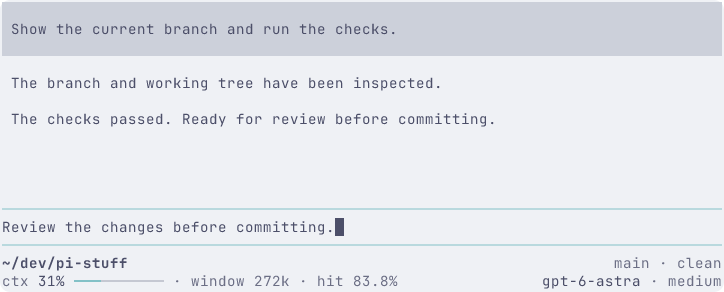
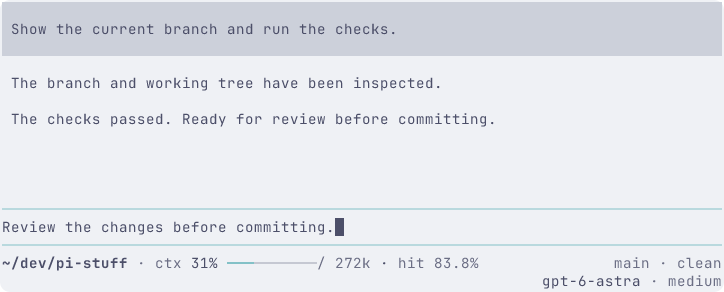
refactor(prototype): place context block after directory

Changed region(s): [[0.0, 0.863, 0.547, 0.9863], [0.547, 0.863, 0.6685, 0.9247]]

diff --git a/prototypes/statusline/capture.ts b/prototypes/statusline/capture.ts
@@ -50,12 +50,28 @@ async function capture(session: Session, name: string): Promise<string> {
   assert.equal(footer.length, 2);
   assert.doesNotMatch(
     footer[0] ?? '',
-    /goal|codex used|ctx|hit/u,
-    'Repository row stays focused',
+    /goal|codex used/u,
+    'Extensions stay on the second row',
+  );
+  assert.doesNotMatch(
+    footer[1] ?? '',
+    /ctx|hit|window/u,
+    'Context stays after the directory',
+  );
+  if (footer[0]?.includes('ctx')) {
+    assert.match(
+      footer[0],
+      /^~\/dev\/\S+ · ctx 31% ━{10}\/ 272k · hit 83\.8%/u,
+    );
+  }
+  assert.equal(
+    footer.join(' ').includes('ctx'),
+    footer.join(' ').includes('hit'),
+    'Context and hit stay together',
   );
   assert.doesNotMatch(
     footer.join(' '),
-    /R620k|W8k|est \$|openai-codex|auto/u,
+    /R620k|W8k|est \$|openai-codex|auto|window/u,
     'Routine detail fields do not return at wider widths',
   );
   if (
@@ -79,11 +95,12 @@ async function capture(session: Session, name: string): Promise<string> {
       'Lowercase sample labels and clean dot separators',
     );
     assert.equal(
-      line.split(/ {2,}/u).length,
-      2,
-      'Exactly one elastic gap separates the two zones',
+      line.trimStart().split(/ {2,}/u).length,
+      line.startsWith(' ') ? 1 : 2,
+      'One elastic gap when both zones are populated',
     );
-    if (line.includes('ctx')) assert.match(line, /ctx 31% ━{10}/u);
+    if (line.includes('ctx'))
+      assert.match(line, /ctx 31% ━{10}\/ 272k · hit 83\.8%/u);
   }
   assert.ok(
     lines.slice(start + 2).every(line => line.trim() === ''),
@@ -196,7 +213,7 @@ await runEffect(async () => {
                   footer.includes('↑2 ↓1'),
                   'Both divergence counters survive',
                 );
-              if (scenario !== 'long' || cols >= 100) {
+              if (cols === 150 || (scenario !== 'long' && cols >= 80)) {
                 assert.match(footer, /hit 83\.8%/u);
                 assert.match(footer, /ctx 31% ━{10}/u);
               }

diff --git a/prototypes/statusline/footer.ts b/prototypes/statusline/footer.ts
@@ -117,16 +117,12 @@ export function renderFooter(
   const meter =
     theme.fg('thinkingMedium', '━'.repeat(filled)) +
     theme.fg('borderMuted', '━'.repeat(10 - filled));
-  // A compact viewport omits capacity as a whole field, never shortens the meter.
-  second.push(
-    {
-      text: `${theme.fg('muted', 'ctx')} ${context}% ${meter}`,
-      side: 'left',
-      priority: 90,
-    },
-    {text: theme.fg('muted', 'window 272k'), side: 'left', priority: 20},
-    {text: theme.fg('muted', 'hit 83.8%'), side: 'left', priority: 100},
-  );
+  // Keep the requested context/capacity/hit block intact immediately after dir.
+  first.push({
+    text: `${theme.fg('muted', 'ctx')} ${context}% ${meter}${theme.fg('muted', '/ 272k')} · ${theme.fg('muted', 'hit 83.8%')}`,
+    side: 'left',
+    priority: 90,
+  });
   if (identitiesFit && state.scenario !== 'base') {
     second.push({
       text: theme.fg(

diff --git a/prototypes/statusline/README.md b/prototypes/statusline/README.md
@@ -27,24 +27,24 @@ bun run tui stop pi-statusline
 
 The footer uses two rows with left and right anchors:
 
-| Row    | Left zone                                                 | Right zone                                     |
-| ------ | --------------------------------------------------------- | ---------------------------------------------- |
-| First  | Full directory                                            | Branch, working-tree counts, commit divergence |
-| Second | Context, optional capacity, cache hit, third-party status | Model, thinking effort                         |
+| Row    | Left zone                                  | Right zone                                     |
+| ------ | ------------------------------------------ | ---------------------------------------------- |
+| First  | Full directory, context/capacity/hit block | Branch, working-tree counts, commit divergence |
+| Second | Third-party status                         | Model, thinking effort                         |
 
 Adjacent fields in each zone use `·`. One elastic gap separates the two zones and puts their outer fields against the terminal edges. Compound values such as `+1 ~1 ?1` remain one Git field with ordinary internal spaces. No alignment padding appears within a zone. Authored labels are lowercase, including `codex`; actual directory, branch, model and external values retain their original casing.
 
-Third-party statuses have one place: after the core statistics in the lower-left zone. The goal/quota sample is an optional atomic group. It never takes over the Git or model anchors and is hidden first when space runs out. A future integration can pass additional complete status fields into this zone; this prototype does not add an extension API or poll real providers.
+Context follows the directory with the exact format `ctx 31% ━━━━━━━━━━/ 272k · hit 83.8%`. The slash touches the meter and has one following space. Capacity is part of ctx; there is no separate window field. The complete context/capacity/hit block is shown or hidden together. Third-party statuses remain in the lower-left zone, now starting at its left edge. The goal/quota sample is an optional atomic group. It never takes over the Git or model anchors and is hidden first when space runs out. A future integration can pass additional complete status fields into this zone; this prototype does not add an extension API or poll real providers.
 
-After extension status, capacity and thinking effort yield before model/context/hit. Fields disappear whole, without abbreviations or smaller-field backfill. At 50 columns, the ordinary sample retains directory, complete Git state, context meter, hit and the model; thinking effort and capacity are hidden. The meter remains ten continuous characters.
+On row one, optional context yields to full directory/Git. On row two, extension status and then thinking effort yield before the model. Fields disappear whole, without abbreviations or smaller-field backfill. At 50 columns, the ordinary sample retains directory, complete Git state and model/effort, hiding the context block; it returns at 80 columns. Visible context always retains the capacity and ten continuous meter characters.
 
 For long identities, directory and branch retain separate left/right anchors on row one when possible, moving working-tree/divergence fields to row two. If the names themselves cannot share a row, row one becomes directory/worktree and row two becomes branch/divergence. At 50 columns this long sample hides runtime metrics entirely so all identity and Git state survives. Individual names beyond the physical viewport use an ellipsis; there is no third row or overflow counter.
 
 Ordinary Git states use neutral text; only conflicts use an error color. `clean` means no changes, `+1` staged, `~1` modified, `?1` untracked, `!1` conflicted, `↑2` ahead and `↓1` behind. Values are file counts and commit divergence, not changed-line counts. The fixtures do not cover every operation such as rebase or detached HEAD. Routine token/cache-read-write details, costs, provider and auto labels remain absent from this reduced layout.
 
-中文: Footer 固定双行、左右分区. 第一行左侧完整目录, 右侧分支、工作区计数与提交领先/落后. 第二行左侧 ctx、可选容量、hit及第三方状态, 右侧模型与思考强度. 同一区域内相邻字段用 `·` 分隔, 两个区域之间仅一个弹性间隙, 区域内部不填充空白. `+1 ~1 ?1` 等复合计数仍是一个 Git 字段, 内部使用普通空格. 自定义标签全部小写, 包括 `codex`; 实际目录、分支、模型和外部值保留原始大小写.
+中文: Footer 固定双行、左右分区. 第一行左侧完整目录后是ctx/容量/hit整体, 右侧分支、工作区计数与提交领先/落后. 第二行左侧第三方状态, 右侧模型与思考强度. 同一区域内相邻字段用 `·` 分隔, 两个区域之间仅一个弹性间隙, 区域内部不填充空白. `+1 ~1 ?1` 等复合计数仍是一个 Git 字段, 内部使用普通空格. 自定义标签全部小写, 包括 `codex`; 实际目录、分支、模型和外部值保留原始大小写.
 
-中文: 第三方字段固定接在左下核心统计之后. goal/额度样例是一个可选整体, 不占用 Git 或模型的锚点, 窄屏时最先隐藏. 未来接入可在此区域加入完整状态字段, 本原型不增加扩展 API 或真实数据读取. 接着隐藏容量和思考强度, 然后才是模型/ctx/hit. 不简写、不零碎回填. 普通 50 列保留目录、完整 Git、连续十字符进度条、hit和模型, 隐藏容量与思考强度.
+中文: ctx紧随目录, 精确样式为 `ctx 31% ━━━━━━━━━━/ 272k · hit 83.8%`, 斜杠贴进度条、后面一个空格. 容量合入ctx, 不再有独立window字段; ctx/容量/hit整块显隐. 第三方字段仍在左下, 现在从该区域最左端开始. goal/额度作为一个可选整体, 不占Git/模型锚点. 第一行ctx整体让位于完整目录/Git; 第二行扩展、思考强度先于模型退让. 不简写、不零碎回填. 普通50列保留目录、完整Git和模型/强度, 隐藏ctx块; 80列恢复. 显示时容量与十字符连续进度条均完整保留. 本原型不增加扩展API或真实数据读取.
 
 中文: 长身份优先在第一行左右保留目录与分支, 把工作区/提交计数移到第二行. 两个名称也放不下时, 第一行变为左目录/右工作区计数, 第二行为左分支/右领先落后. 该长样例在 50 列隐藏全部运行统计, 保住完整身份和 Git 状态. 单项名称超过物理宽度才使用省略号, 不加第三行或溢出计数. 普通 Git 状态为中性色, 冲突使用错误色. `clean` 为干净, `+1` 暂存、`~1` 修改、`?1` 未跟踪、`!1` 冲突、`↑2` 领先、`↓1` 落后; 数字是文件数与提交数, 不是代码行数. 样例未覆盖 rebase/detached HEAD 等所有操作. token/缓存读写明细、费用、provider和auto继续不常驻.
 
@@ -55,7 +55,7 @@ The PNGs are actual headless Terminal Control captures at 150/100/80/50 columns 
 ![Light, extended, 150 columns](captures/catppuccin-latte-extended-150.png)
 ![Dark, long directory and branch, 50 columns](captures/catppuccin-mocha-long-50.png)
 
-The one-shot driver covers each theme/scenario at 150 → 100 → 80 → 50 → 150, then editing, submit, cancellation and resubmit. Assertions check two rows, full sample identities and Git states at every width, continuous meter and hit when space allows, left/right alignment, dot separators, lowercase sample labels, whole extension groups, absence of removed details and restoration. The driver waits for both right anchors and a complete runtime-row tail after resize, then captures a stable frame. It rejects partial extension values. See [verification.txt](captures/verification.txt).
+The one-shot driver covers each theme/scenario at 150 → 100 → 80 → 50 → 150, then editing, submit, cancellation and resubmit. Assertions check two rows, full sample identities and Git states at every width, the exact context/capacity/hit block immediately after the directory when it fits, left/right alignment, dot separators, lowercase sample labels, whole extension groups, absence of removed details and restoration. The driver waits for both right anchors and a complete runtime-row tail after resize, then captures a stable frame. It rejects partial extension values. See [verification.txt](captures/verification.txt).
 
 ```sh
 PI_TEST_HOST=/opt/bin/pi bun prototypes/statusline/capture.ts /tmp/pi-statusline-captures
@@ -65,7 +65,7 @@ git diff --check
 
 Environment: Bun 1.4.0, compiled Pi 0.87.1, Terminal Control 1.2.1, repository API declarations at Pi 0.85.1. Temporary settings/sessions are cleaned up. The local provider and all displayed directory/Git/account/usage data are deterministic samples; no Git status, account quota, real model request or check command is executed. The native editor, message rendering, streaming, cancellation and resize are real Pi behavior. The provider uses Pi's [documented extension API](https://github.com/earendil-works/pi/blob/v0.85.1/packages/coding-agent/docs/custom-provider.md).
 
-中文: PNG 来自真实无头 Terminal Control, 包含完整 16 行终端视口, 覆盖明暗主题和 150/100/80/50 列, 字体栈见上. 它们不是裁剪的设计图或原生 Ghostty/合成器截图. 一次性驱动验证各场景的缩窄与恢复、编辑、提交、取消和再次提交, 检查双行、完整目录/分支/Git 计数、可容纳时的连续进度条/hit、左右对齐、圆点分隔、小写样例标签、扩展组整体显隐、无已移除明细及恢复结果. 缩放后等待两个右侧锚点和完整行尾再抓稳定帧, 截断的扩展组会导致验证失败. 复现命令及版本见上. 临时设置/会话会清理. 所有目录、Git、账号与用量均为确定样例, 不查询真实状态、不调用模型或检查命令; 编辑器、消息、流式输出、取消和缩放使用原生 Pi.
+中文: PNG 来自真实无头 Terminal Control, 包含完整 16 行终端视口, 覆盖明暗主题和 150/100/80/50 列, 字体栈见上. 它们不是裁剪的设计图或原生 Ghostty/合成器截图. 一次性驱动验证各场景的缩窄与恢复、编辑、提交、取消和再次提交, 检查双行、完整目录/分支/Git 计数、可容纳时紧随目录且格式精确的ctx/容量/hit整体、左右对齐、圆点分隔、小写样例标签、扩展组整体显隐、无已移除明细及恢复结果. 缩放后等待两个右侧锚点和完整行尾再抓稳定帧, 截断的扩展组会导致验证失败. 复现命令及版本见上. 临时设置/会话会清理. 所有目录、Git、账号与用量均为确定样例, 不查询真实状态、不调用模型或检查命令; 编辑器、消息、流式输出、取消和缩放使用原生 Pi.
 
 ## Tracking
 
